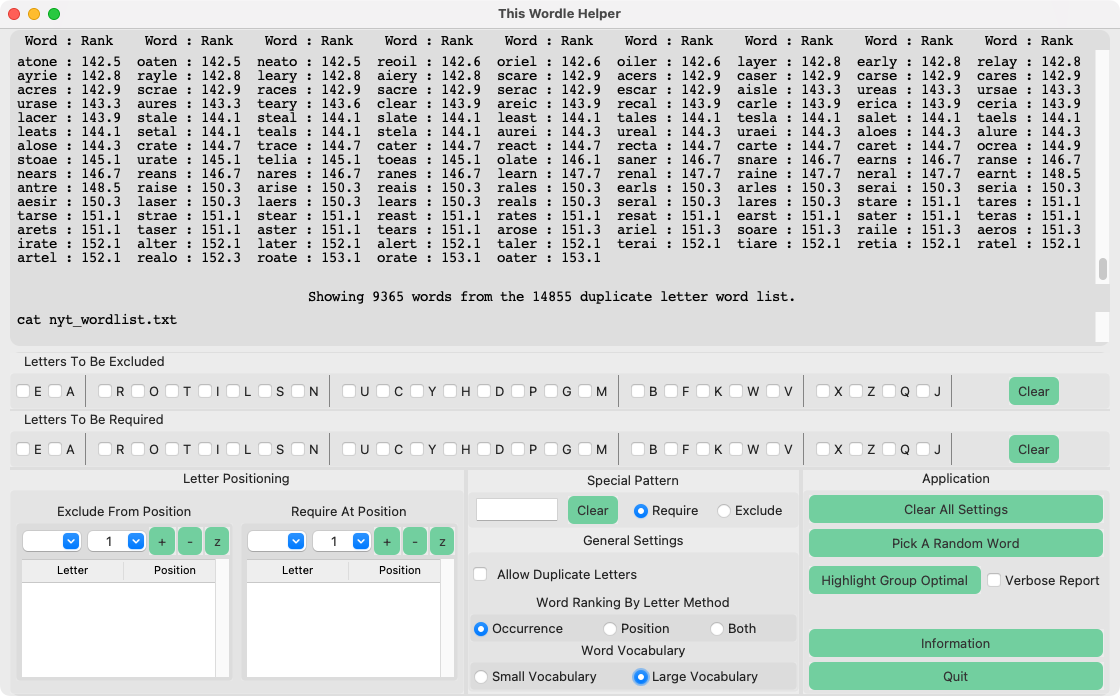
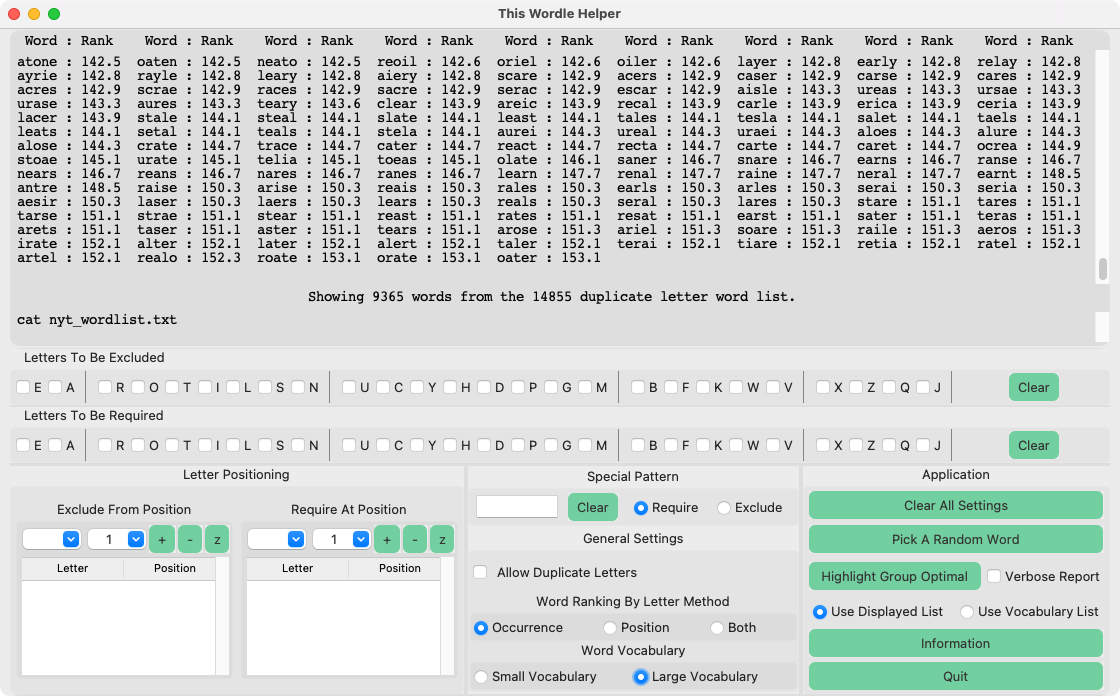
Expanded groups analysis to use full vocabulary as option

diff --git a/pywt.py b/pywt.py
@@ -159,6 +159,7 @@ class Pywordlemainwindow(ctk.CTk):
 
         ln_col = set_n_col(self)
         # set the Vars
+        self.use_all_targets = tk.BooleanVar(value=False)
         self.allow_dup_state = tk.BooleanVar(value=False)
         self.verbose_grps = tk.BooleanVar(value=False)
         self.vocab_var = tk.IntVar(value=1)
@@ -171,7 +172,6 @@ class Pywordlemainwindow(ctk.CTk):
         self.pos_r = self.pos5.copy()
         self.pos_x = self.pos5.copy()
         self.sel_rando = False
-        # self.sel_genetic = False
         self.sel_grpoptimal = False
 
         # configure style
@@ -261,16 +261,36 @@ class Pywordlemainwindow(ctk.CTk):
 
             # group ranking
             if self.sel_grpoptimal and (n_items > 0):
+                # Flag to use all solutions as guesses instead of the current displayed word list. This is to allow
+                # option to group rank from the entire guess list.
+                # use_all_targets = True
+                use_all_targets = self.use_all_targets.get()
+                # current displayed word list
                 word_list = list(the_word_list.keys())
-                optimal_group_guesses = helpers.best_groups_guess_dict(word_list, self.verbose_grps.get())
-                opt_group_guesses = list(optimal_group_guesses.keys())
+                optimal_group_guesses = {}
+                if not use_all_targets:
+                    optimal_group_guesses = helpers.best_groups_guess_dict(word_list, self.verbose_grps.get())
+                else:
+                    # get the entire possible guess list
+                    all_targets = helpers.ToolResults(data_path, 'wo_nyt_wordlist.txt', letter_rank_file, True, 0) \
+                        .get_ranked_results_wrd_lst(True)
+                    optimal_group_guesses = helpers.x_best_groups_guess_dict(word_list, self.verbose_grps.get(),
+                                                                             all_targets)
+
+                lst_opt_group_guesses = list(optimal_group_guesses.keys())
                 g_stats = optimal_group_guesses[list(optimal_group_guesses.keys())[0]]
                 optimal_rank = g_stats[2]
                 grps_qty = g_stats[0]
                 max_grp_size = g_stats[1]
-                regex: str = helpers.regex_maxgenrankers(opt_group_guesses, the_word_list)
+                if not use_all_targets:
+                    regex: str = helpers.regex_maxgenrankers(lst_opt_group_guesses, the_word_list)
+                else:
+                    lst_displayed = list(the_word_list.keys())
+                    lst_common = list(set(lst_displayed) & set(lst_opt_group_guesses))
+                    regex: str = helpers.regex_maxgenrankers(lst_common, the_word_list)
+
                 tx_result.highlight_pattern(regex, 'grp')
-                comment = " (" + str(len(opt_group_guesses)) + " optimals " + \
+                comment = " (" + str(len(lst_opt_group_guesses)) + " optimals " + \
                           ", grp qty: " + '{0:.0f}'.format(grps_qty) + \
                           ", max size: " + '{0:.0f}'.format(max_grp_size) + \
                           ", ave size: " + '{0:.2f}'.format(optimal_rank) + ")"
@@ -1225,10 +1245,7 @@ class Pywordlemainwindow(ctk.CTk):
         self.bt_rando = ctk.CTkButton(self.admin_frame, text="Pick A Random Word", width=40, command=pick_rando)
         self.bt_rando.pack(side=tk.TOP, padx=4, pady=3, fill=tk.X)
 
-        # self.bt_genetic = ctk.CTkButton(self.admin_frame, text="Show Highest Genetic Rank", width=40,
-        #                                 command=pick_genetic)
-        # self.bt_genetic.pack(side=tk.TOP, padx=6, pady=3, fill=tk.X)
-
+        # frame for groups section
         self.grp_frame = ttk.Frame(self.admin_frame)
         self.grp_frame.pack(side=tk.TOP, padx=0, pady=3, fill=tk.X)
 
@@ -1243,6 +1260,16 @@ class Pywordlemainwindow(ctk.CTk):
                                             offvalue=False
                                             )
         self.chk_grp_disp.pack(side=tk.LEFT, padx=0, pady=3)
+        # frame within groups frame for which list option
+        self.grp_lst_ops_frame = ttk.Frame(self.admin_frame)
+        self.grp_lst_ops_frame.pack(side=tk.BOTTOM, padx=0, pady=3, fill=tk.X)
+        rbrA = ttk.Radiobutton(self.grp_lst_ops_frame, text="Use Displayed List", variable=self.use_all_targets, value=0)
+        rbrA.pack(side=tk.LEFT, fill=tk.X, padx=6, pady=2, expand=True)
+        rbrB = ttk.Radiobutton(self.grp_lst_ops_frame, text="Use Vocabulary List", variable=self.use_all_targets, value=1)
+        rbrB.pack(side=tk.RIGHT, fill=tk.X, padx=0, pady=2, expand=True)
+
+
+        # end groups frame
 
         # === END OF ====== Application Controls ==========
 

diff --git a/helpers.py b/helpers.py
@@ -430,6 +430,77 @@ def ave_group_size(groups_dict: dict) -> float:
     return sums / len(groups_dict)
 
 
+def x_best_groups_guess_dict(word_lst: list, reporting: bool, all_targets: dict) -> dict:
+    """
+    Wraps guess word group ranking to return the best
+    group rank guesses. Guesses resulting in more groups
+    and smaller groups are better guesses.
+    @param reporting: flag for verbose printing to rptwnd
+    @param word_lst: possible guess words
+    @return: dictionary of the best group ranked guesses
+    """
+    guess_rank_dict = {}
+    best_rank_dict = {}
+    min_score = len(word_lst)
+
+    if reporting:
+        rptwnd = RptWnd()
+        rptwnd.title("Group Pattern Reporting")
+        rptl = "-- Current Vocabulary Words List (" + '{0:.0f}'.format(len(all_targets)) + " words) Pattern Groups --\n"
+        rptwnd.msg1.insert(tk.END, rptl)
+
+    for guess in all_targets.keys():
+        groups_dict = groups_for_this_guess(guess, word_lst)
+        # grp_stats are: qty, largest, average as a tuple
+        grp_stats = group_stats(groups_dict)
+
+        if reporting:
+            rptl = '\n> > > > Clue pattern groups for: ' + guess + ' < < < < '
+            rptwnd.msg1.insert(tk.END, rptl)
+            data = tuple(str(x) for x in grp_stats)
+            rptl = '\n> qty: ' + data[0] + ', largest size: ' + data[1] + ', average size: ' + '{0:.3f}'.format(
+                grp_stats[2])
+            rptwnd.msg1.insert(tk.END, rptl)
+            rptwnd.msg1.insert(tk.END, '\n')
+            for key in sorted(groups_dict):
+                g = groups_dict[key]
+                rptl = 'pat: ' + key + ', ' + str(len(g)) + ' wrds: ' + ', '.join(g)
+                rptwnd.msg1.insert(tk.END, '\n' + rptl)
+            rptwnd.msg1.insert(tk.END, '\n')
+
+        # The rank is calculated as the average of the group's sizes.
+        # Guesses that have the same number of groups but have a larger
+        # , largest group have equal prob. to other guesses having the same
+        # average.
+        guess_rank_dict[guess] = grp_stats
+
+        # Record the smallest average pattern groups size.
+        min_score = min(grp_stats[2], min_score)
+
+    # Populate the best_rank_dict with the best guesses.
+    for g, s in guess_rank_dict.items():
+        if s[2] == min_score:
+            if g not in best_rank_dict:
+                best_rank_dict[g] = s
+
+    if reporting:
+        wrds = list(best_rank_dict.keys())
+        rptl = "\nOut Of Current Vocabulary Words List Of " + '{0:.0f}'.format(len(all_targets)) + " Words"
+        rptwnd.msg1.insert(tk.END, rptl)
+        rptl = '\nOptimal group guesses: ' + ', '.join(wrds)
+        rptwnd.msg1.insert(tk.END, rptl)
+        g_stats = best_rank_dict[list(best_rank_dict.keys())[0]]
+        optimal_rank = g_stats[2]
+        grps_qty = g_stats[0]
+        max_grp_size = g_stats[1]
+        rptl = "\nGroup qty: " + '{0:.0f}'.format(grps_qty) + \
+               ", max size: " + '{0:.0f}'.format(max_grp_size) + \
+               ", ave size: " + '{0:.2f}'.format(optimal_rank) + ")"
+        rptwnd.msg1.insert(tk.END, rptl)
+        rptwnd.msg1.see('end')
+    return best_rank_dict
+
+
 def best_groups_guess_dict(word_lst: list, reporting: bool) -> dict:
     """
     Wraps guess word group ranking to return the best
@@ -446,7 +517,7 @@ def best_groups_guess_dict(word_lst: list, reporting: bool) -> dict:
     if reporting:
         rptwnd = RptWnd()
         rptwnd.title("Group Pattern Reporting")
-        rptl = "-- Current Displayed Word List Pattern Groups --\n"
+        rptl = "-- Current Displayed Words List (" + '{0:.0f}'.format(len(word_lst)) + " words) Pattern Groups --\n"
         rptwnd.msg1.insert(tk.END, rptl)
 
     for guess in word_lst:
@@ -485,6 +556,8 @@ def best_groups_guess_dict(word_lst: list, reporting: bool) -> dict:
 
     if reporting:
         wrds = list(best_rank_dict.keys())
+        rptl = "\nOut Of Current Displayed Words List Of " + '{0:.0f}'.format(len(word_lst)) + " Words"
+        rptwnd.msg1.insert(tk.END, rptl)
         rptl = '\nOptimal group guesses: ' + ', '.join(wrds)
         rptwnd.msg1.insert(tk.END, rptl)
         g_stats = best_rank_dict[list(best_rank_dict.keys())[0]]

diff --git a/README.md b/README.md
@@ -114,7 +114,7 @@ The Wordle helper shows five-letter words from which you can select for playing 
 
 * **Pick A Random Word** highlights a random word in the current showing word list. There is a point when narrowing down the list of possible words where the higher ranking words are biased against words containing low ranking letters. Any one of the words shown could be the Wordle word. This feature is intended for use when the list has become small where you can surmise the correct word would be a random selection.
 
-* **Highlight Group Optimal** highlights the word or words that result in the lowest average group score when that word is used as a guess. The score is the average of the guess's groups sizes. This analysis is performed on the current displayed words. The group finding process is lengthy and may take extended time to finish. The group optimal guess word is likely to result in remaining smaller word groups, thus increasing chances to find the solution in fewer guesses. Optimal group analysis should be performed on the total selection list that contains multiple letters because the analysis is for selecting the solution versus guessing for letter discovery. A separate window opens to report all the group pattern information during the analysis when the **Verbose Report** checkbox is checked.
+* **Highlight Group Optimal** highlights the word or words that result in the lowest average group score when that word is used as a guess. The score is the average of the guess's groups sizes. This analysis is performed on the current displayed words or the entire current vocabulary. The group finding process is lengthy and may take extended time to finish. The group optimal guess word is likely to result in remaining smaller word groups, thus increasing chances to find the solution in fewer guesses. Optimal group analysis should be performed on the total selection list that contains multiple letters because the analysis is for selecting the solution versus guessing for letter discovery. A separate window opens to report all the group pattern information during the analysis when the **Verbose Report** checkbox is checked.
 
 #### Tips
 
